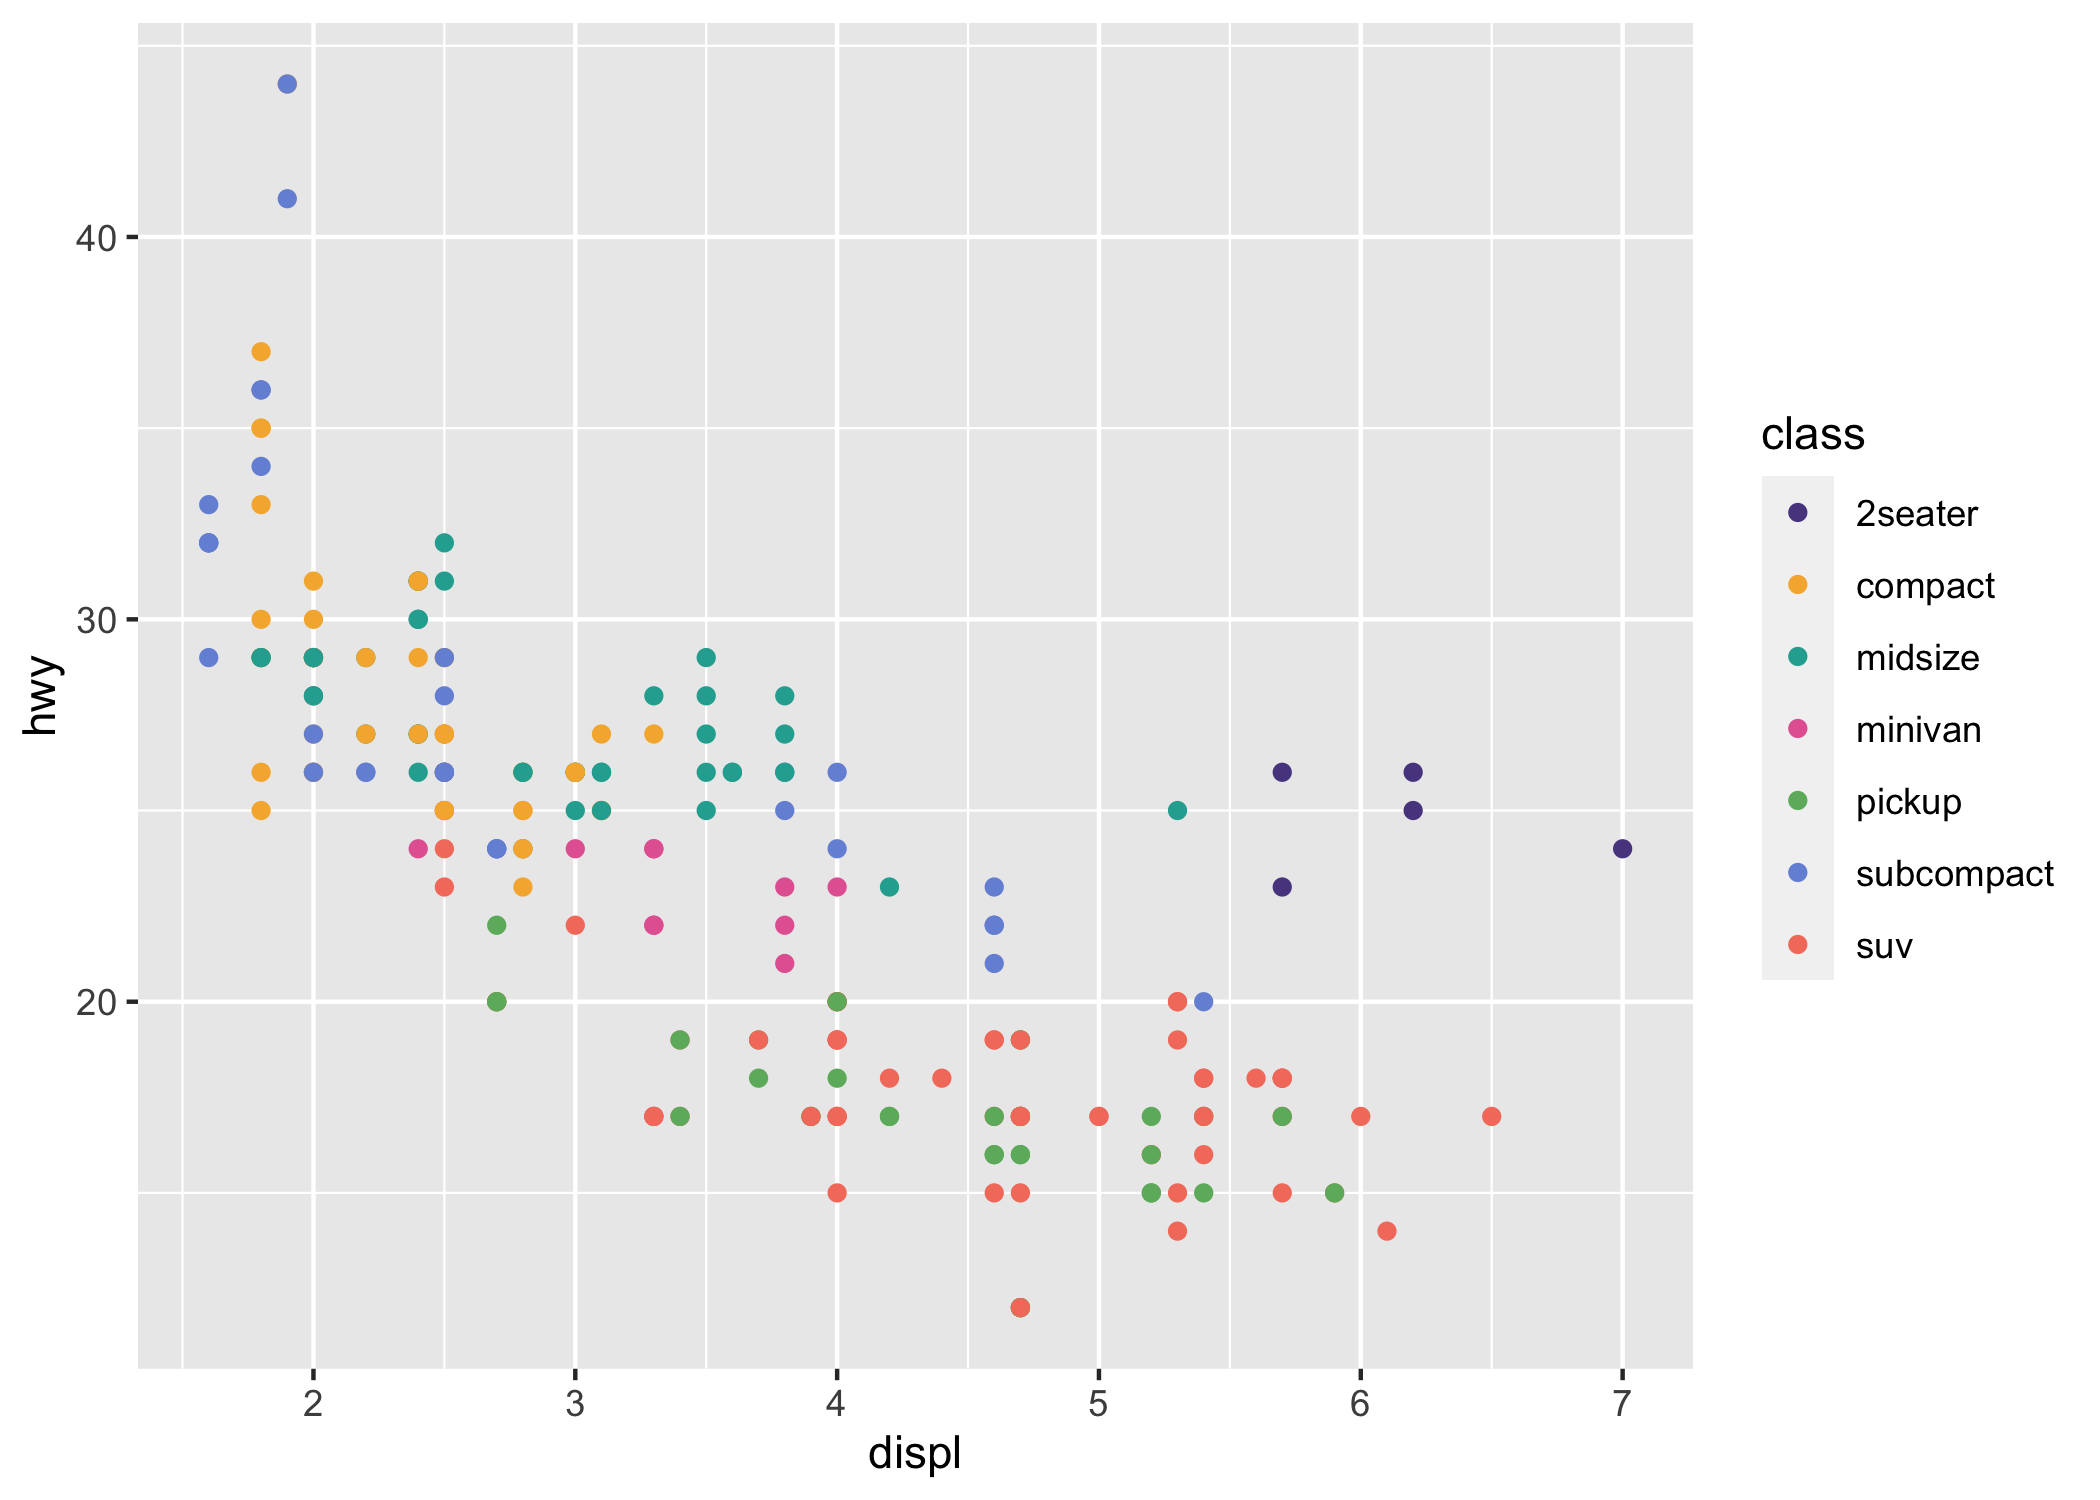
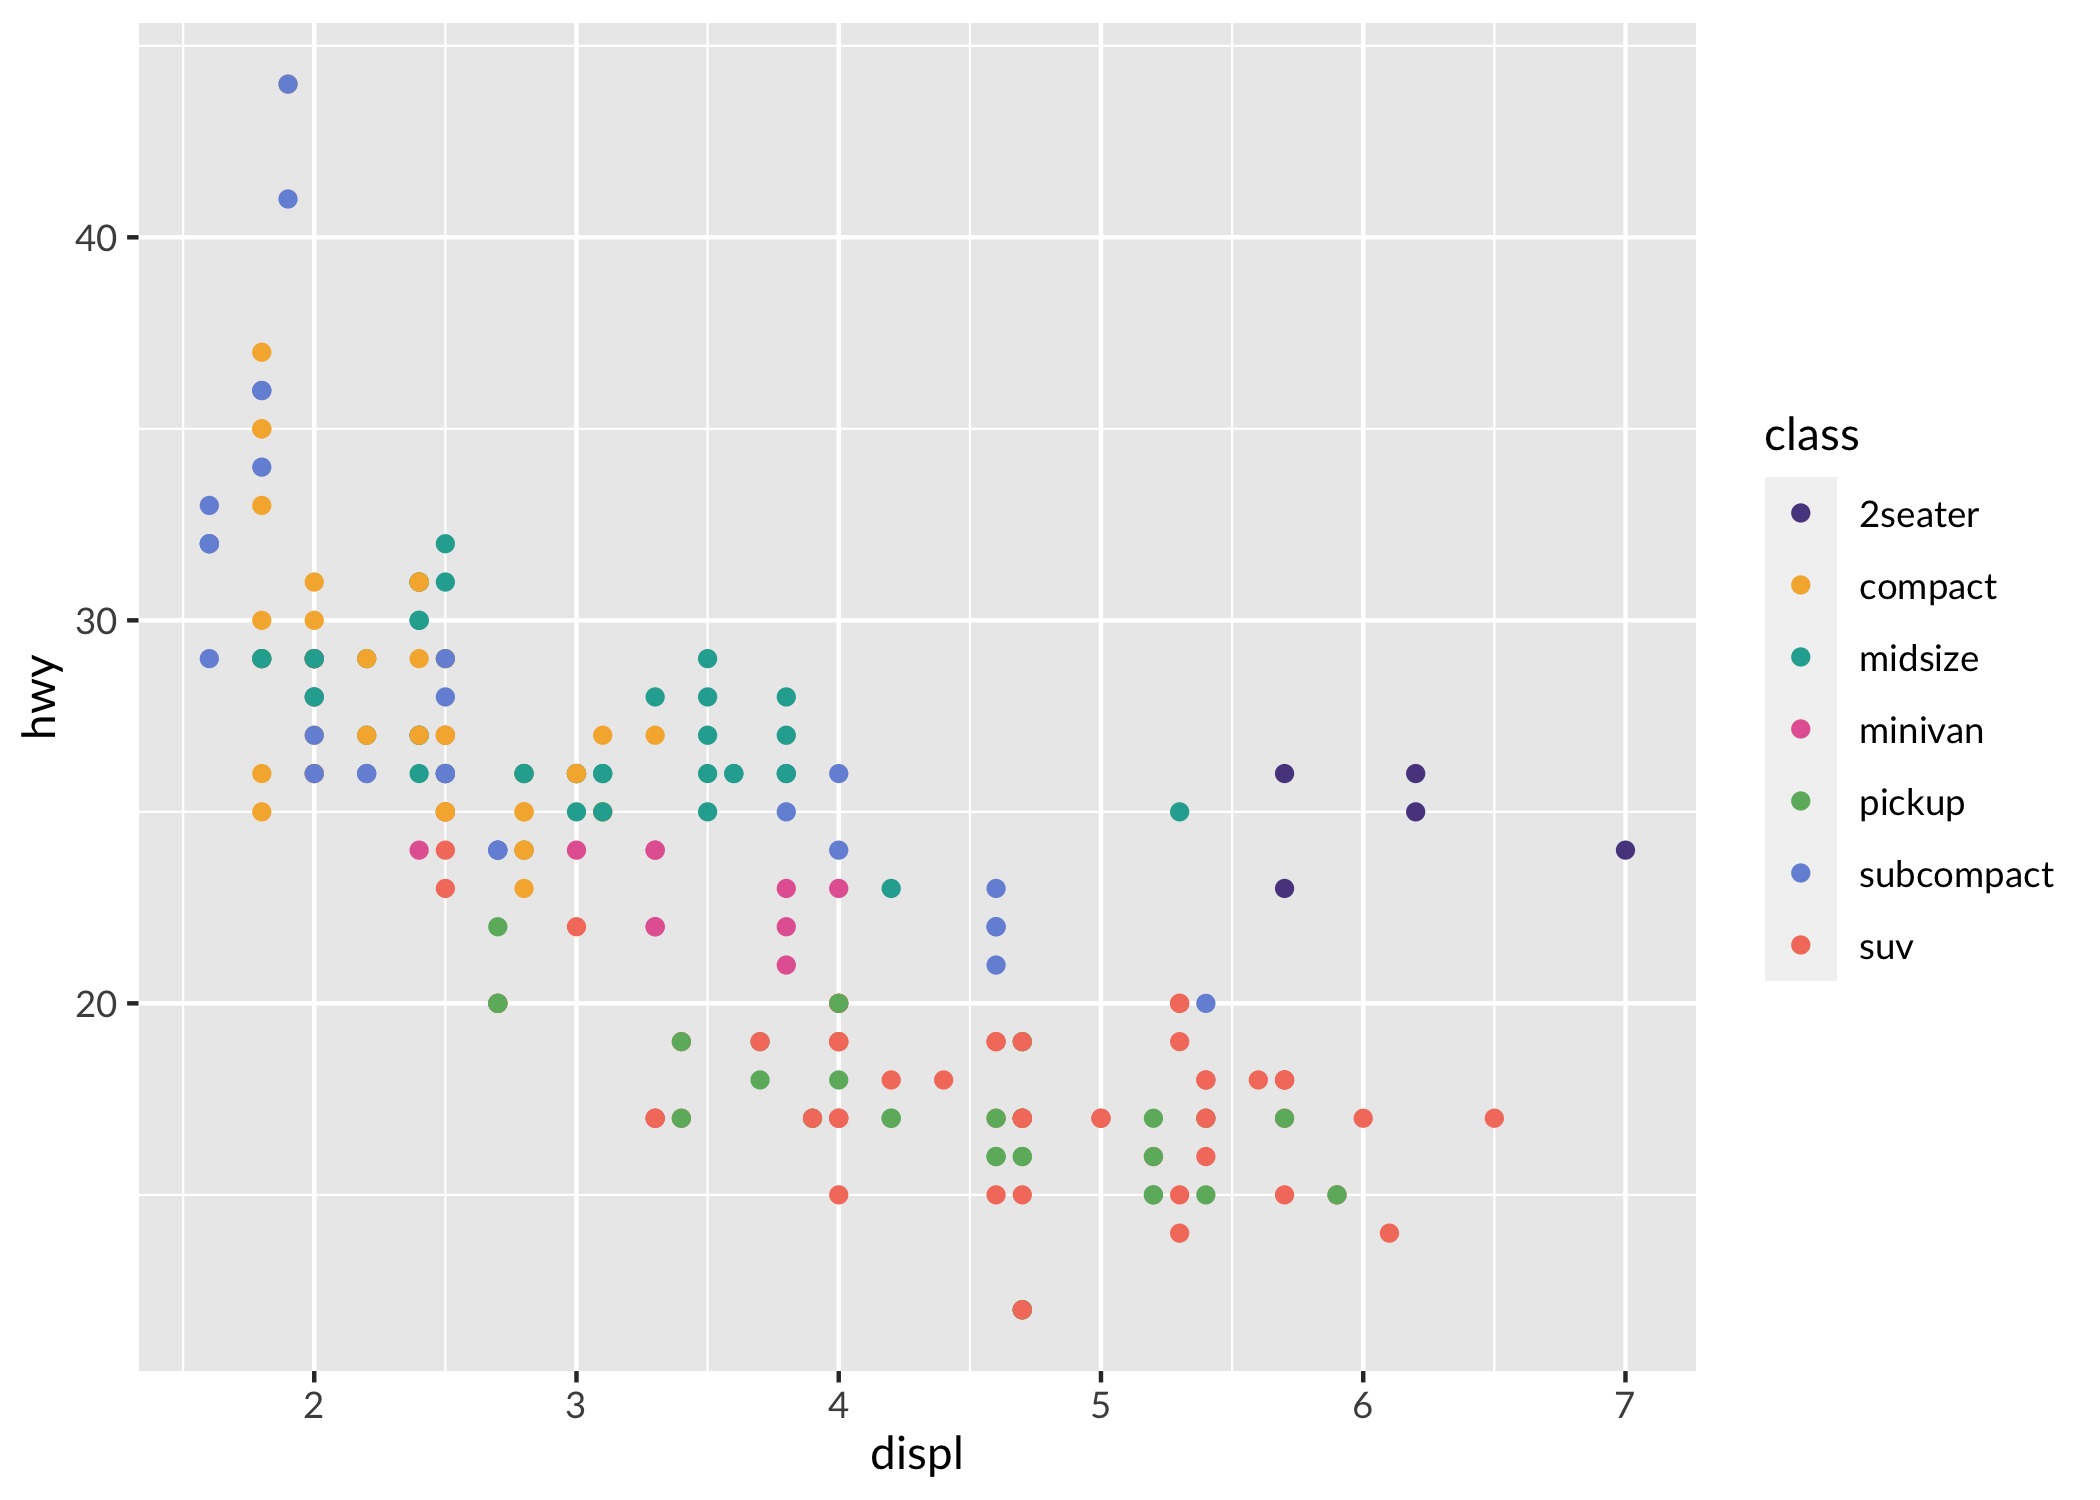
Add theme_sage() (#6)
* Add theme_sage()

* Update README examples

diff --git a/README.md b/README.md
@@ -41,7 +41,11 @@ head(sage_colors, n = 3)
 
 ## Usage
 
-sagethemes provides continuous, discrete, and binned scales.
+sagethemes provides continuous, discrete, and binned scales. It also
+provides a default theme, `theme_sage()`, which is currently just
+`theme_gray()` but with Lato as the font family. Lato must be installed
+for this theme to work. See the Fonts section below, and `?import_lato`
+for mor information.
 
 ``` r
 library("ggplot2")
@@ -50,16 +54,28 @@ library("sagethemes")
 # discrete
 ggplot(mpg, aes(displ, hwy, colour = class)) +
   geom_point() +
-  scale_color_sage_d()
+  scale_color_sage_d() +
+  theme_sage()
 ```
 
 <img src="man/figures/README-discrete-1.png" width="100%" />
 
 ``` r
+
+ggplot(mpg, aes(x = factor(year), fill = class)) +
+  geom_bar() +
+  scale_fill_sage_d() +
+  theme_sage()
+```
+
+<img src="man/figures/README-discrete-2.png" width="100%" />
+
+``` r
 # continuous
 ggplot(faithfuld, aes(waiting, eruptions, fill = density)) +
   geom_tile() +
-  scale_fill_sage_c(option = "powder")
+  scale_fill_sage_c(option = "powder") +
+  theme_sage()
 ```
 
 <img src="man/figures/README-continuous-1.png" width="100%" />
@@ -68,7 +84,8 @@ ggplot(faithfuld, aes(waiting, eruptions, fill = density)) +
 # binned
 ggplot(faithfuld, aes(waiting, eruptions, fill = density)) +
   geom_tile() +
-  scale_fill_sage_b(option = "powder")
+  scale_fill_sage_b(option = "powder") +
+  theme_sage()
 ```
 
 <img src="man/figures/README-binned-1.png" width="100%" />
@@ -90,7 +107,7 @@ import_lato()
 p <- ggplot(mpg, aes(displ, hwy, colour = class)) +
   geom_point() +
   scale_color_sage_d() +
-  theme_gray(base_family = "Lato")
+  theme_sage()
 
 # Save PDF plot and embed Lato font
 ggsave("plot.pdf", plot = p)
